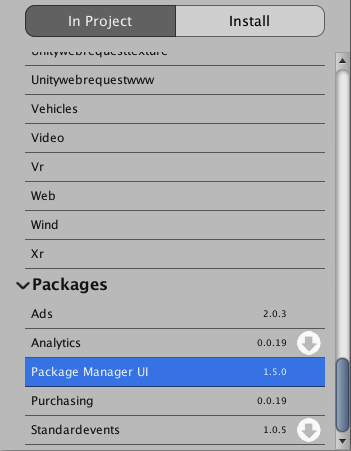
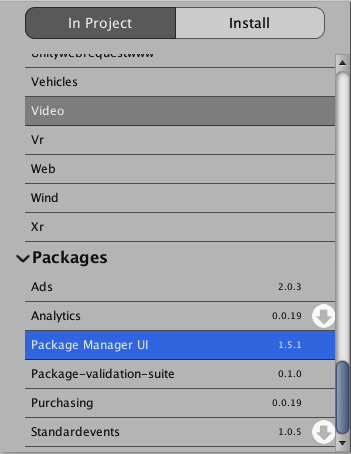
1.5.1 - 2018/01/29 @2018.1

diff --git a/package/Editor/Sources/UI/PackageDetails.cs b/package/Editor/Sources/UI/PackageDetails.cs
@@ -48,7 +48,7 @@ namespace UnityEditor.PackageManager.UI
 
             UpdateButton.visible = false;
             RemoveButton.visible = false;
-            root.Q<VisualContainer>(emptyId).visible = false;
+            root.Q<VisualElement>(emptyId).visible = false;
 
             UpdateButton.clickable.clicked += UpdateClick;
             RemoveButton.clickable.clicked += RemoveClick;
@@ -66,7 +66,7 @@ namespace UnityEditor.PackageManager.UI
 
         private void OnFilterChanged(PackageFilter obj)
         {
-            root.Q<VisualContainer>(emptyId).visible = false;
+            root.Q<VisualElement>(emptyId).visible = false;
         }
 
         public void SetPackage(Package package, PackageFilter filter)
@@ -175,8 +175,8 @@ namespace UnityEditor.PackageManager.UI
             }
 
             // Set visibility
-            root.Q<VisualContainer>("detail").visible = detailVisible;
-            root.Q<VisualContainer>(emptyId).visible = !detailVisible;
+            root.Q<VisualElement>("detail").visible = detailVisible;
+            root.Q<VisualElement>(emptyId).visible = !detailVisible;
             
             if (error != null)
                 SetError(error);
@@ -354,6 +354,6 @@ namespace UnityEditor.PackageManager.UI
         private Label DetailModuleReference { get { return root.Q<Label>("detailModuleReference"); } }
         private Label DetailVersion { get { return root.Q<Label>("detailVersion");  }}
         
-        internal VisualContainer GetTag(PackageTag tag) {return root.Q<VisualContainer>("tag-" + tag.ToString()); } 
+        internal VisualElement GetTag(PackageTag tag) {return root.Q<VisualElement>("tag-" + tag.ToString()); } 
     }
 }

diff --git a/package/Editor/Sources/UI/PackageList.cs b/package/Editor/Sources/UI/PackageList.cs
@@ -34,8 +34,8 @@ namespace UnityEditor.PackageManager.UI
             Add(root);
             root.StretchToParentSize();
 
-            root.Q<VisualContainer>(emptyId).visible = false;
-            root.Q<VisualContainer>(loadingId).visible = true;
+            root.Q<VisualElement>(emptyId).visible = false;
+            root.Q<VisualElement>(loadingId).visible = true;
             LoadingSpinner.Start();
 
             PackageCollection.Instance.OnPackagesChanged += SetPackages;
@@ -72,9 +72,9 @@ namespace UnityEditor.PackageManager.UI
         {
             List.Clear();
             Groups.Clear();
-            ClearSelection();            
+            ClearSelection();
             Spinner.Stop();
-            root.Q<VisualContainer>(emptyId).visible = false;
+            root.Q<VisualElement>(emptyId).visible = false;
         }
         
         private void SetPackages(IEnumerable<Package> packages)
@@ -82,7 +82,7 @@ namespace UnityEditor.PackageManager.UI
             OnLoaded();
             ClearAll();
 
-            root.Q<VisualContainer>(loadingId).visible = false;
+            root.Q<VisualElement>(loadingId).visible = false;
             LoadingSpinner.Stop();
 
             foreach (var package in packages)
@@ -90,7 +90,7 @@ namespace UnityEditor.PackageManager.UI
                 AddPackage(package);                
             }
 
-            root.Q<VisualContainer>(emptyId).visible = !packages.Any();
+            root.Q<VisualElement>(emptyId).visible = !packages.Any();
         }
 
         private void AddPackage(Package package)

diff --git a/package/Editor/Sources/UI/PackageGroup.cs b/package/Editor/Sources/UI/PackageGroup.cs
@@ -15,7 +15,7 @@ namespace UnityEditor.PackageManager.UI
     {
         private readonly VisualElement root;
         private bool collapsed;
-        private readonly VisualContainer listElement;
+        private readonly VisualElement listElement;
 
         internal readonly PackageGroupOrigins Origin;
 
@@ -68,9 +68,9 @@ namespace UnityEditor.PackageManager.UI
             return packageItem;
         }
         
-        private VisualContainer List { get { return root.Q<VisualContainer>("groupContainer"); } }
-        private VisualContainer ListContainer { get { return root.Q<VisualContainer>("groupContainerOuter"); } }
-        private VisualContainer Header { get { return root.Q<VisualContainer>("headerContainer"); } }        
+        private VisualElement List { get { return root.Q<VisualElement>("groupContainer"); } }
+        private VisualElement ListContainer { get { return root.Q<VisualElement>("groupContainerOuter"); } }
+        private VisualElement Header { get { return root.Q<VisualElement>("headerContainer"); } }        
         private Label HeaderTitle { get { return root.Q<Label>("headerTitle"); } }
         private Caret Caret { get { return root.Q<Caret>("headerExpandState"); } }
         internal bool Collapsed { get { return collapsed; } set { SetCollapsed(value); } }

diff --git a/package/Editor/Sources/UI/PackageItem.cs b/package/Editor/Sources/UI/PackageItem.cs
@@ -95,7 +95,7 @@ namespace UnityEditor.PackageManager.UI
         private Label NameLabel { get { return root.Q<Label>("packageName"); } }
         private Label StateLabel { get { return root.Q<Label>("packageState"); } }
         private Label VersionLabel { get { return root.Q<Label>("packageVersion"); } }
-        private VisualContainer PackageContainer { get { return root.Q<VisualContainer>("packageContainer"); } }
+        private VisualElement PackageContainer { get { return root.Q<VisualElement>("packageContainer"); } }
         private LoadingSpinner Spinner { get { return root.Q<LoadingSpinner>("packageSpinner"); } }
 
         public static string GetIconStateId(PackageInfo packageInfo)

diff --git a/README.md b/README.md
@@ -8,6 +8,7 @@ The "In Project" and "Install" filters allow you to show different lists of pack
 ▪ Install: Lists all discoverable packages and all previously downloaded packages. If a package is already installed in your project, it will show with a differently colored background.
 
 What's new:
+▪ Replace VisualContainer by VisualElement in code and templates.
 ▪ Move "Project->Packages->Manage" menu item to "Window->Package Manager"
 ▪ Show the latest version and description in tab "Install" instead of the current version
 ▪ Display "Recommended" tag properly
@@ -21,6 +22,7 @@ What's new:
 ▪ Extra messaging on package state
 ▪ Documentation update
 
-Unity Package Manager UI includes the following known limitation:
+Unity Package Manager UI includes the following known issues or limitation:
+▪ Using a cache server may not update your assemblies properly, please turn it off.
 ▪ Modifying the manifest.json by hand doesn't update the package list. You need to either re-open the window or change filter to force an update.
 ▪ Built-in packages can't be enable or disable right now.

diff --git a/package/CHANGELOG.md b/package/CHANGELOG.md
@@ -4,6 +4,10 @@ All notable changes to this package will be documented in this file.
 The format is based on [Keep a Changelog](http://keepachangelog.com/en/1.0.0/)
 and this project adheres to [Semantic Versioning](http://semver.org/spec/v2.0.0.html).
 
+## [1.5.1] - 2018-01-18
+### Fixes
+- Replace VisualContainer by VisualElement in code and templates
+
 ## [1.5.0] - 2018-01-17
 ### Fixes
 - Move "Project->Packages->Manage" menu item to "Window->Package Manager"

diff --git a/package/Documentation/PackageDocs/package-manager-ui.md b/package/Documentation/PackageDocs/package-manager-ui.md
@@ -127,6 +127,7 @@ The following table provides an alphabetical list of the important files and fol
 
 |Date|Reason|
 |---|---|
+|Jan 18, 2018|Document updated. Matches package version 1.5.1.|
 |Jan 17, 2018|Document updated. Matches package version 1.5.0.|
 |Jan 12, 2018|Document updated. Matches package version 1.4.0.|
 |Nov 7, 2017|Document created. Matches package version 1.0.0.|
